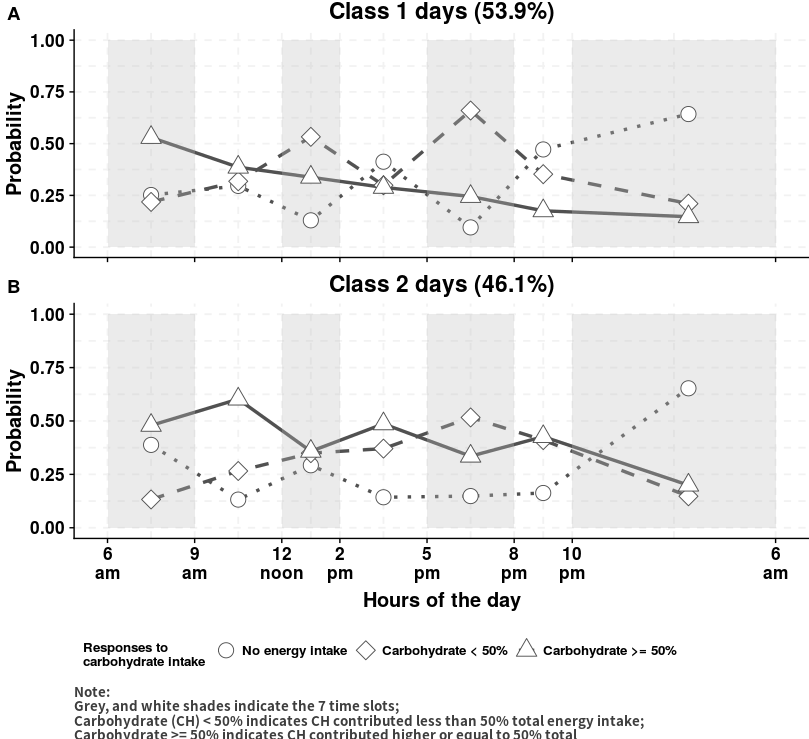
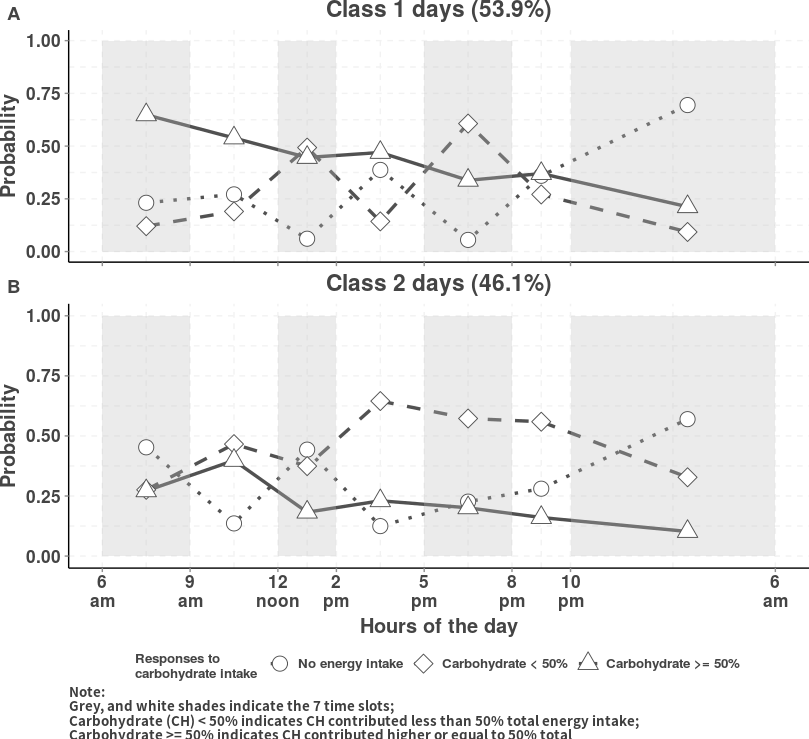
updated with Y5 2daytypes fig

diff --git a/NDNSRP_Y14.html b/NDNSRP_Y14.html
@@ -3,7 +3,7 @@
 "http://www.w3.org/TR/xhtml1/DTD/xhtml1-strict.dtd">
 <html xmlns="http://www.w3.org/1999/xhtml" lang="en" xml:lang="en">
 <head>
-<!-- 2019-05-11 Sat 15:40 -->
+<!-- 2019-05-13 Mon 10:49 -->
 <meta http-equiv="Content-Type" content="text/html;charset=utf-8" />
 <meta name="viewport" content="width=device-width, initial-scale=1" />
 <title>NDNS MLCA tables for participants during years 1-4 and 5-8 years separately</title>
@@ -261,49 +261,49 @@ for the JavaScript code in this tag.
 <h2>Table of Contents</h2>
 <div id="text-table-of-contents">
 <ul>
-<li><a href="#org4d66a6f">1. Gender distributions in years 1-4 and 5-8</a>
+<li><a href="#org6825f7e">1. Gender distributions in years 1-4 and 5-8</a>
 <ul>
-<li><a href="#orgdd23b43">1.1. Year 1-4</a></li>
-<li><a href="#org142ced3">1.2. Year 5-8</a></li>
+<li><a href="#orga2735f0">1.1. Year 1-4</a></li>
+<li><a href="#orga7b3a65">1.2. Year 5-8</a></li>
 </ul>
 </li>
-<li><a href="#org3f4c12d">2. Day level LCA model fitting information</a></li>
-<li><a href="#orgf063d9c">3. MLCA model fitting information for participants Year 1-4</a></li>
-<li><a href="#orge06ad74">4. MLCA model fitting information for participants Year 5-8</a></li>
-<li><a href="#org575feb2">5. Day level solution for participants Year 1-4</a>
+<li><a href="#orgcb571ec">2. Day level LCA model fitting information</a></li>
+<li><a href="#org6ac0bf4">3. MLCA model fitting information for participants Year 1-4</a></li>
+<li><a href="#org97710bc">4. MLCA model fitting information for participants Year 5-8</a></li>
+<li><a href="#org8ba1dc6">5. Day level solution for participants Year 1-4</a>
 <ul>
-<li><a href="#orgb0073f1">5.1. 2 day types</a></li>
-<li><a href="#orgfa4f708">5.2. 3 day types</a></li>
+<li><a href="#orge03a735">5.1. 2 day types</a></li>
+<li><a href="#org9a792ff">5.2. 3 day types</a></li>
 </ul>
 </li>
-<li><a href="#orgc52fe09">6. Day level solution in Women</a>
+<li><a href="#orgf91b8e7">6. Day level solution for participants Year 5-8</a>
 <ul>
-<li><a href="#org16717d0">6.1. 2 day types</a></li>
-<li><a href="#org92020d7">6.2. 3 day types</a></li>
+<li><a href="#orgfe40b5e">6.1. 2 day types</a></li>
+<li><a href="#org1963964">6.2. 3 day types</a></li>
 </ul>
 </li>
-<li><a href="#orgf5cf6d3">7. Individual level solution in MEN</a>
+<li><a href="#orgc620ced">7. Individual level solution in MEN</a>
 <ul>
-<li><a href="#orgbd7e10f">7.1. 2 \(\times\) 5 solution (the best one in terms of model fitting)</a></li>
-<li><a href="#org7bc89fa">7.2. 3 \(\times\) 3 solution (the best one in terms of interpretation)</a></li>
+<li><a href="#org8ba8404">7.1. 2 \(\times\) 5 solution (the best one in terms of model fitting)</a></li>
+<li><a href="#orgfff15d9">7.2. 3 \(\times\) 3 solution (the best one in terms of interpretation)</a></li>
 </ul>
 </li>
-<li><a href="#orgb3b5a4e">8. Individual level solution in Women</a>
+<li><a href="#orgafe2c48">8. Individual level solution in Women</a>
 <ul>
-<li><a href="#orgf81bd92">8.1. 2 \(\times\) 5 solution (the best one in terms of model fitting)</a></li>
-<li><a href="#orgbb46783">8.2. 3 \(\times\) 3 solution (the best one in terms of interpretation)</a></li>
+<li><a href="#org53e0bf2">8.1. 2 \(\times\) 5 solution (the best one in terms of model fitting)</a></li>
+<li><a href="#org625bcd9">8.2. 3 \(\times\) 3 solution (the best one in terms of interpretation)</a></li>
 </ul>
 </li>
 </ul>
 </div>
 </div>
 
-<div id="outline-container-org4d66a6f" class="outline-2">
-<h2 id="org4d66a6f"><span class="section-number-2">1</span> Gender distributions in years 1-4 and 5-8</h2>
+<div id="outline-container-org6825f7e" class="outline-2">
+<h2 id="org6825f7e"><span class="section-number-2">1</span> Gender distributions in years 1-4 and 5-8</h2>
 <div class="outline-text-2" id="text-1">
 </div>
-<div id="outline-container-orgdd23b43" class="outline-3">
-<h3 id="orgdd23b43"><span class="section-number-3">1.1</span> Year 1-4</h3>
+<div id="outline-container-orga2735f0" class="outline-3">
+<h3 id="orga2735f0"><span class="section-number-3">1.1</span> Year 1-4</h3>
 <div class="outline-text-3" id="text-1-1">
 <table border="2" cellspacing="0" cellpadding="6" rules="groups" frame="hsides">
 
@@ -351,8 +351,8 @@ for the JavaScript code in this tag.
 </div>
 
 
-<div id="outline-container-org142ced3" class="outline-3">
-<h3 id="org142ced3"><span class="section-number-3">1.2</span> Year 5-8</h3>
+<div id="outline-container-orga7b3a65" class="outline-3">
+<h3 id="orga7b3a65"><span class="section-number-3">1.2</span> Year 5-8</h3>
 <div class="outline-text-3" id="text-1-2">
 <table border="2" cellspacing="0" cellpadding="6" rules="groups" frame="hsides">
 
@@ -401,8 +401,8 @@ for the JavaScript code in this tag.
 </div>
 
 
-<div id="outline-container-org3f4c12d" class="outline-2">
-<h2 id="org3f4c12d"><span class="section-number-2">2</span> Day level LCA model fitting information</h2>
+<div id="outline-container-orgcb571ec" class="outline-2">
+<h2 id="orgcb571ec"><span class="section-number-2">2</span> Day level LCA model fitting information</h2>
 <div class="outline-text-2" id="text-2">
 <table border="2" cellspacing="0" cellpadding="6" rules="groups" frame="hsides">
 
@@ -597,8 +597,8 @@ for the JavaScript code in this tag.
 
 
 
-<div id="outline-container-orgf063d9c" class="outline-2">
-<h2 id="orgf063d9c"><span class="section-number-2">3</span> MLCA model fitting information for participants Year 1-4</h2>
+<div id="outline-container-org6ac0bf4" class="outline-2">
+<h2 id="org6ac0bf4"><span class="section-number-2">3</span> MLCA model fitting information for participants Year 1-4</h2>
 <div class="outline-text-2" id="text-3">
 <table border="2" cellspacing="0" cellpadding="6" rules="groups" frame="hsides">
 
@@ -995,8 +995,8 @@ for the JavaScript code in this tag.
 </div>
 
 
-<div id="outline-container-orge06ad74" class="outline-2">
-<h2 id="orge06ad74"><span class="section-number-2">4</span> MLCA model fitting information for participants Year 5-8</h2>
+<div id="outline-container-org97710bc" class="outline-2">
+<h2 id="org97710bc"><span class="section-number-2">4</span> MLCA model fitting information for participants Year 5-8</h2>
 <div class="outline-text-2" id="text-4">
 <table border="2" cellspacing="0" cellpadding="6" rules="groups" frame="hsides">
 
@@ -1394,55 +1394,60 @@ for the JavaScript code in this tag.
 
 
 
-<div id="outline-container-org575feb2" class="outline-2">
-<h2 id="org575feb2"><span class="section-number-2">5</span> Day level solution for participants Year 1-4</h2>
+<div id="outline-container-org8ba1dc6" class="outline-2">
+<h2 id="org8ba1dc6"><span class="section-number-2">5</span> Day level solution for participants Year 1-4</h2>
 <div class="outline-text-2" id="text-5">
 </div>
-<div id="outline-container-orgb0073f1" class="outline-3">
-<h3 id="orgb0073f1"><span class="section-number-3">5.1</span> 2 day types</h3>
+<div id="outline-container-orge03a735" class="outline-3">
+<h3 id="orge03a735"><span class="section-number-3">5.1</span> 2 day types</h3>
 <div class="outline-text-3" id="text-5-1">
 
-<div id="org798f56c" class="figure">
+<div id="orgc444667" class="figure">
 <p><a href="https://wangcc.me/Emacsnotes/Pic/Y14_2daytypes809_739.png"><img src="https://wangcc.me/Emacsnotes/Pic/Y14_2daytypes809_739.png" alt="Y14_2daytypes809_739.png" /></a>
 </p>
 <p><span class="figure-number">Figure 1: </span>2 Classes in day level (Participants recruited between Year 1-4)</p>
 </div>
 </div>
 </div>
-<div id="outline-container-orgfa4f708" class="outline-3">
-<h3 id="orgfa4f708"><span class="section-number-3">5.2</span> 3 day types</h3>
+<div id="outline-container-org9a792ff" class="outline-3">
+<h3 id="org9a792ff"><span class="section-number-3">5.2</span> 3 day types</h3>
 <div class="outline-text-3" id="text-5-2">
 
-<div id="org0de8610" class="figure">
+<div id="org7992aee" class="figure">
 <p><a href="https://wangcc.me/Emacsnotes/Pic/Y14_3daytypes809_809.png"><img src="https://wangcc.me/Emacsnotes/Pic/Y14_3daytypes809_809.png" alt="Y14_3daytypes809_809.png" /></a>
 </p>
 <p><span class="figure-number">Figure 2: </span>3 Classes in day level (Participants recruited between Year 1-4)</p>
 </div>
+
+
+<p align="center" height="300">
+<img src="https://wangcc.me/Emacsnotes/Pic/Y14_2daytypes809_739.png" alt="Y14_2daytypes809_739.png" align="center" height="300" />
+<a href="https://wangcc.me/Emacsnotes/Pic/Y58_2daytypes809_739.png"><img src="https://wangcc.me/Emacsnotes/Pic/Y58_2daytypes809_739.png" alt="Y58_2daytypes809_739.png" /></a>
+</p>
 </div>
 </div>
 </div>
 
-
-<div id="outline-container-orgc52fe09" class="outline-2">
-<h2 id="orgc52fe09"><span class="section-number-2">6</span> Day level solution in Women</h2>
+<div id="outline-container-orgf91b8e7" class="outline-2">
+<h2 id="orgf91b8e7"><span class="section-number-2">6</span> Day level solution for participants Year 5-8</h2>
 <div class="outline-text-2" id="text-6">
 </div>
-<div id="outline-container-org16717d0" class="outline-3">
-<h3 id="org16717d0"><span class="section-number-3">6.1</span> 2 day types</h3>
+<div id="outline-container-orgfe40b5e" class="outline-3">
+<h3 id="orgfe40b5e"><span class="section-number-3">6.1</span> 2 day types</h3>
 <div class="outline-text-3" id="text-6-1">
 
-<div id="org4ec660e" class="figure">
-<p><img src="https://wangcc.me/AJCN_temp_NDNS/Women/2daytypes.png" alt="2daytypes.png" />
+<div id="orgb6861fb" class="figure">
+<p><a href="https://wangcc.me/Emacsnotes/Pic/Y58_2daytypes809_739.png"><img src="https://wangcc.me/Emacsnotes/Pic/Y58_2daytypes809_739.png" alt="Y58_2daytypes809_739.png" /></a>
 </p>
-<p><span class="figure-number">Figure 3: </span>2 Classes in day level (women)</p>
+<p><span class="figure-number">Figure 3: </span>2 Classes in day level (Participants recruited between Year 5-8)</p>
 </div>
 </div>
 </div>
-<div id="outline-container-org92020d7" class="outline-3">
-<h3 id="org92020d7"><span class="section-number-3">6.2</span> 3 day types</h3>
+<div id="outline-container-org1963964" class="outline-3">
+<h3 id="org1963964"><span class="section-number-3">6.2</span> 3 day types</h3>
 <div class="outline-text-3" id="text-6-2">
 
-<div id="org81752ee" class="figure">
+<div id="orga0a4b0f" class="figure">
 <p><img src="https://wangcc.me/AJCN_temp_NDNS/Women/3daytypes.png" alt="3daytypes.png" />
 </p>
 <p><span class="figure-number">Figure 4: </span>3 Classes in day level (women)</p>
@@ -1451,19 +1456,19 @@ for the JavaScript code in this tag.
 </div>
 </div>
 
-<div id="outline-container-orgf5cf6d3" class="outline-2">
-<h2 id="orgf5cf6d3"><span class="section-number-2">7</span> Individual level solution in MEN</h2>
+<div id="outline-container-orgc620ced" class="outline-2">
+<h2 id="orgc620ced"><span class="section-number-2">7</span> Individual level solution in MEN</h2>
 <div class="outline-text-2" id="text-7">
 </div>
-<div id="outline-container-orgbd7e10f" class="outline-3">
-<h3 id="orgbd7e10f"><span class="section-number-3">7.1</span> 2 \(\times\) 5 solution (the best one in terms of model fitting)</h3>
+<div id="outline-container-org8ba8404" class="outline-3">
+<h3 id="org8ba8404"><span class="section-number-3">7.1</span> 2 \(\times\) 5 solution (the best one in terms of model fitting)</h3>
 <div class="outline-text-3" id="text-7-1">
 <p>
 <b><b>Here individual class 1 and class 5 are very similar (i.e. not separated).</b></b>
 </p>
 
 
-<div id="org5b0cf63" class="figure">
+<div id="org1db4148" class="figure">
 <p><img src="https://wangcc.me/AJCN_temp_NDNS/Men/CW2CB5.png" alt="CW2CB5.png" />
 </p>
 <p><span class="figure-number">Figure 5: </span>2 classes in day level, 5 classes in individual level (men)</p>
@@ -1472,11 +1477,11 @@ for the JavaScript code in this tag.
 </div>
 
 
-<div id="outline-container-org7bc89fa" class="outline-3">
-<h3 id="org7bc89fa"><span class="section-number-3">7.2</span> 3 \(\times\) 3 solution (the best one in terms of interpretation)</h3>
+<div id="outline-container-orgfff15d9" class="outline-3">
+<h3 id="orgfff15d9"><span class="section-number-3">7.2</span> 3 \(\times\) 3 solution (the best one in terms of interpretation)</h3>
 <div class="outline-text-3" id="text-7-2">
 
-<div id="org73e210d" class="figure">
+<div id="orgca5b626" class="figure">
 <p><img src="https://wangcc.me/AJCN_temp_NDNS/Men/3times3.png" alt="3times3.png" />
 </p>
 <p><span class="figure-number">Figure 6: </span>3 classes in day level, 3 classes in individual level (men)</p>
@@ -1485,19 +1490,19 @@ for the JavaScript code in this tag.
 </div>
 </div>
 
-<div id="outline-container-orgb3b5a4e" class="outline-2">
-<h2 id="orgb3b5a4e"><span class="section-number-2">8</span> Individual level solution in Women</h2>
+<div id="outline-container-orgafe2c48" class="outline-2">
+<h2 id="orgafe2c48"><span class="section-number-2">8</span> Individual level solution in Women</h2>
 <div class="outline-text-2" id="text-8">
 </div>
-<div id="outline-container-orgf81bd92" class="outline-3">
-<h3 id="orgf81bd92"><span class="section-number-3">8.1</span> 2 \(\times\) 5 solution (the best one in terms of model fitting)</h3>
+<div id="outline-container-org53e0bf2" class="outline-3">
+<h3 id="org53e0bf2"><span class="section-number-3">8.1</span> 2 \(\times\) 5 solution (the best one in terms of model fitting)</h3>
 <div class="outline-text-3" id="text-8-1">
 <p>
 <b><b>AGAIN, here individual class 1 and class 5 are very similar (i.e. not separated).</b></b>
 </p>
 
 
-<div id="orgff66c66" class="figure">
+<div id="org3250b95" class="figure">
 <p><img src="https://wangcc.me/AJCN_temp_NDNS/Women/CW2CB5.png" alt="CW2CB5.png" />
 </p>
 <p><span class="figure-number">Figure 7: </span>2 classes in day level, 5 classes in individual level (women)</p>
@@ -1505,11 +1510,11 @@ for the JavaScript code in this tag.
 </div>
 </div>
 
-<div id="outline-container-orgbb46783" class="outline-3">
-<h3 id="orgbb46783"><span class="section-number-3">8.2</span> 3 \(\times\) 3 solution (the best one in terms of interpretation)</h3>
+<div id="outline-container-org625bcd9" class="outline-3">
+<h3 id="org625bcd9"><span class="section-number-3">8.2</span> 3 \(\times\) 3 solution (the best one in terms of interpretation)</h3>
 <div class="outline-text-3" id="text-8-2">
 
-<div id="org0e8a633" class="figure">
+<div id="org3257add" class="figure">
 <p><img src="https://wangcc.me/AJCN_temp_NDNS/Women/CW3CB3.png" alt="CW3CB3.png" />
 </p>
 <p><span class="figure-number">Figure 8: </span>3 classes in day level, 3 classes in individual level (women)</p>
@@ -1520,7 +1525,7 @@ for the JavaScript code in this tag.
 </div>
 <div id="postamble" class="status">
 <p class="author">Author: <a href="https://wangcc.me">Chaochen Wang</a></p>
-<p class="date">Created: 2019-05-11 Sat 15:40</p>
+<p class="date">Created: 2019-05-13 Mon 10:49</p>
 <p class="validation"><a href="http://validator.w3.org/check?uri=referer">Validate</a></p>
 </div>
 </body>
